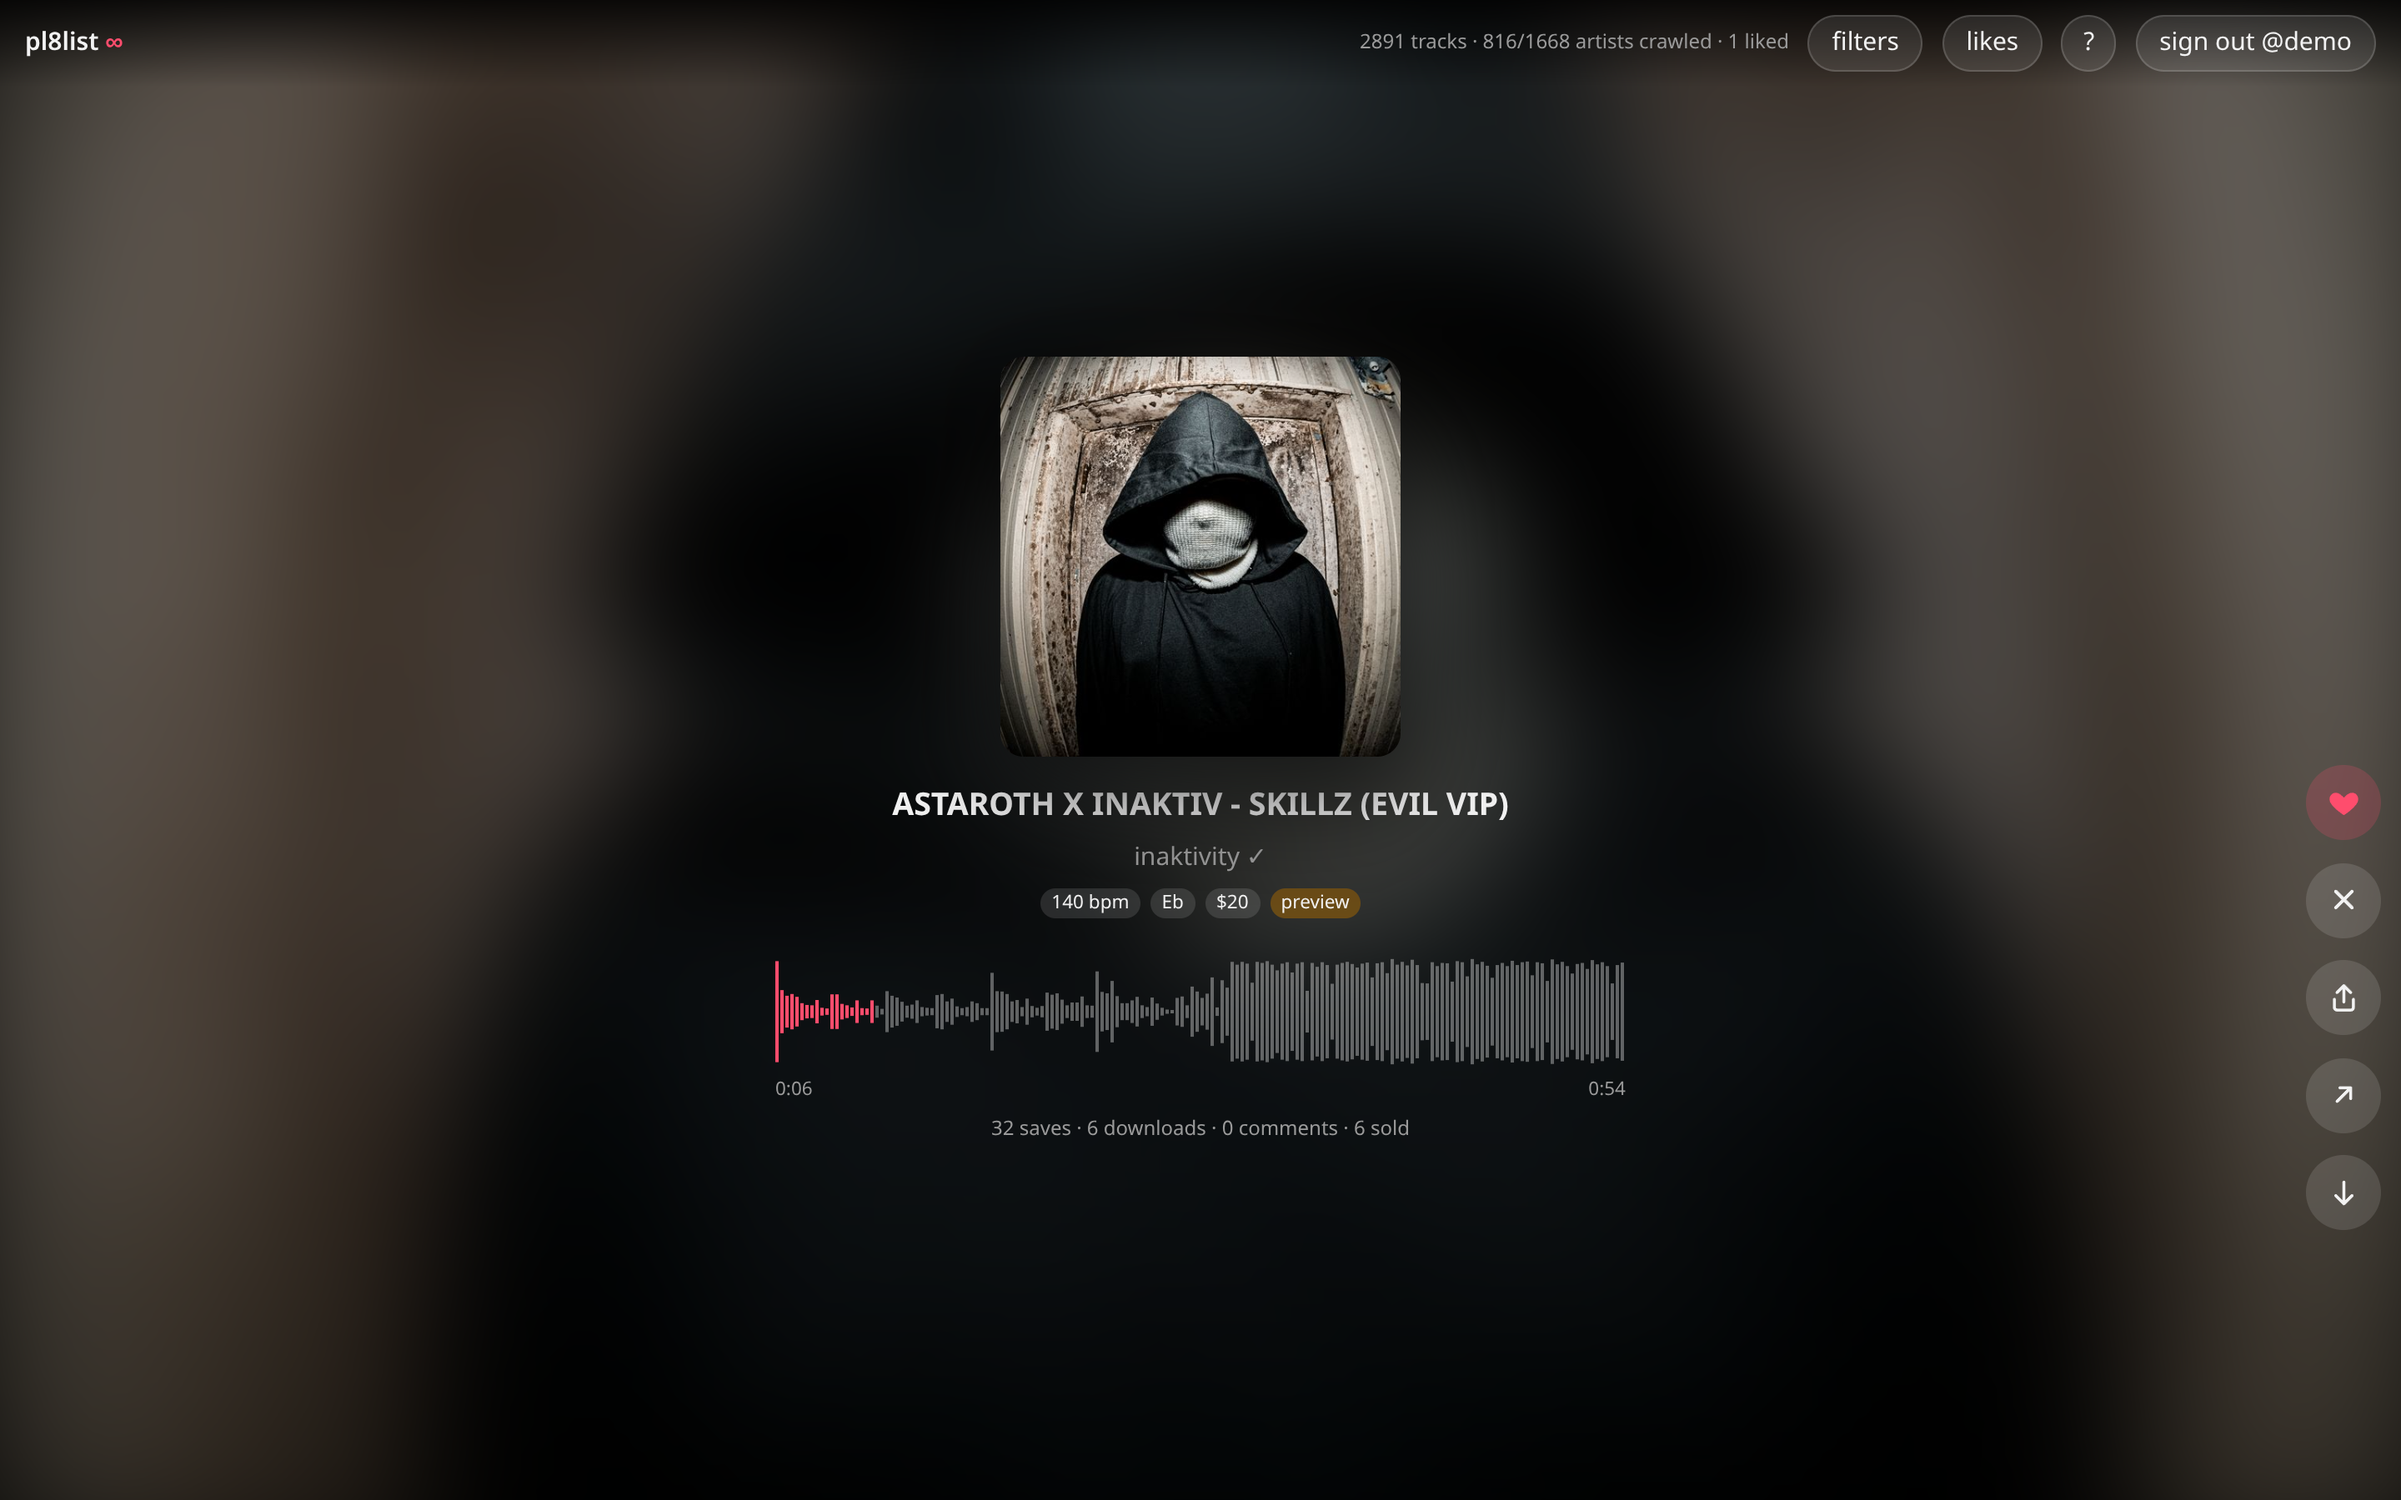
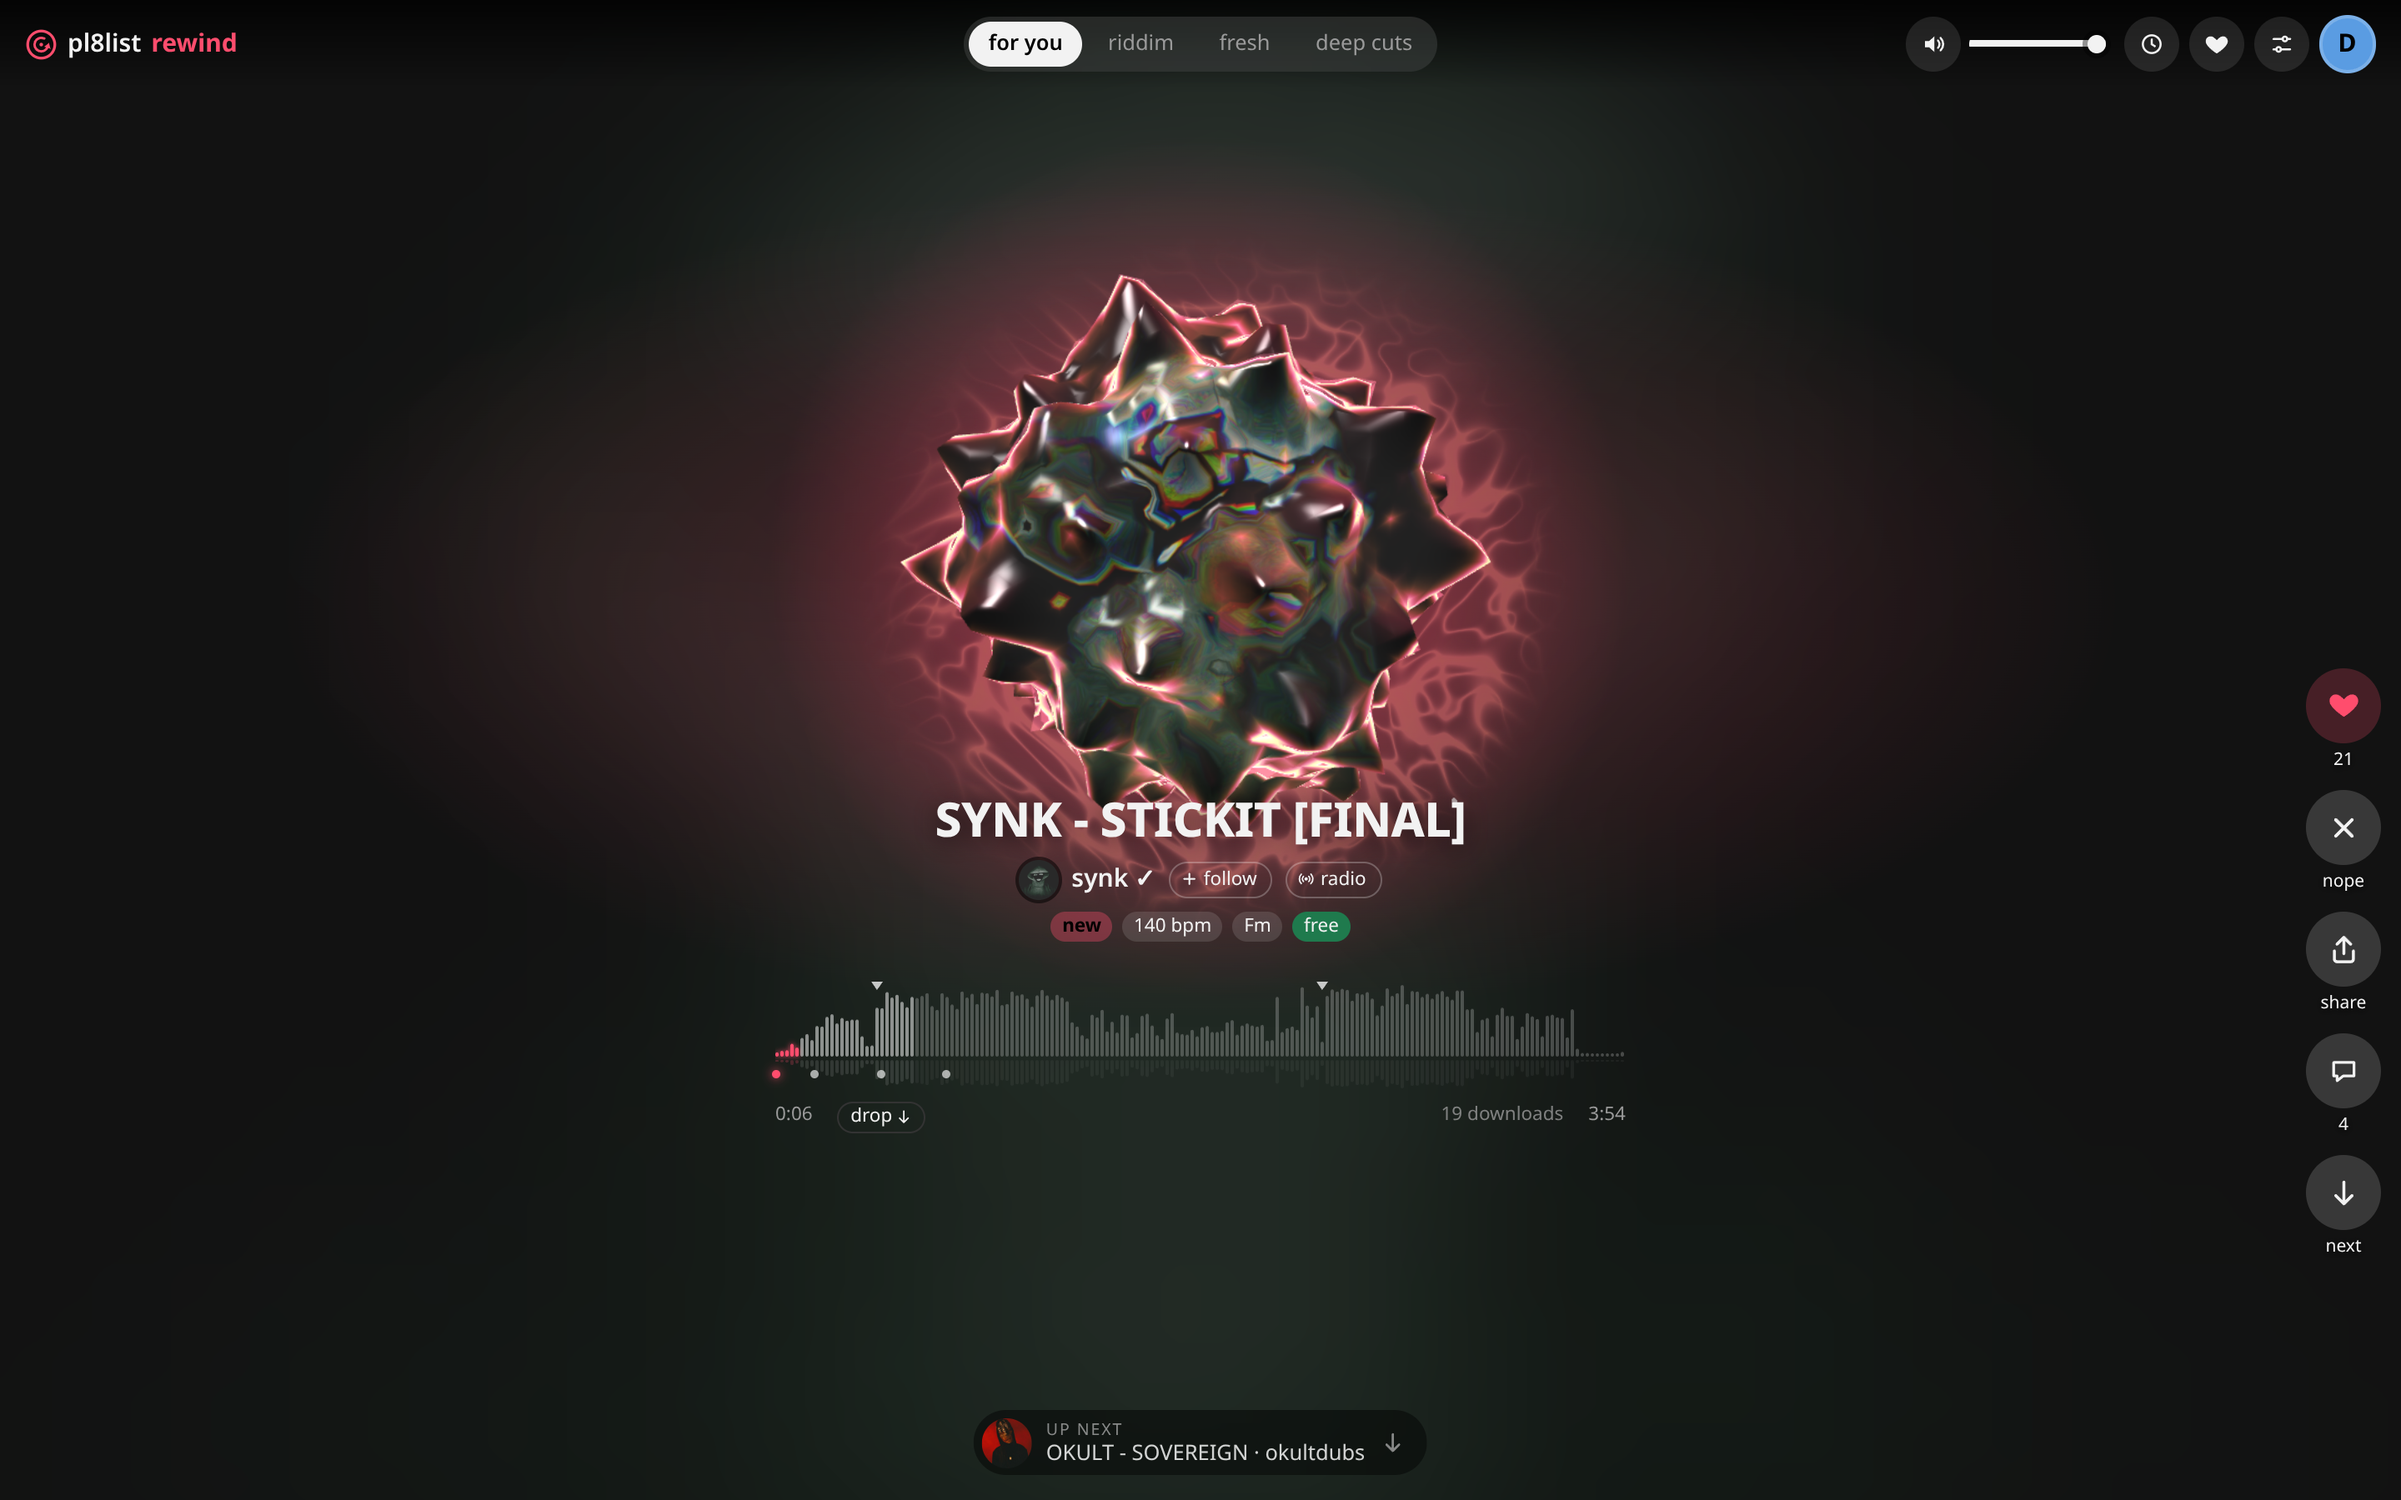
New screenshots, a demo GIF and a README facelift
Header with the app icon and a link to pl8.narl.io, a feature list,
guest listening under Accounts, and the controls as the in-app help
lists them.

diff --git a/README.md b/README.md
@@ -1,13 +1,49 @@
-# pl8list rewind
+<p align="center">
+  <img src="web/public/icons/icon.svg" width="112" alt="">
+</p>
+
+<h1 align="center">pl8list rewind</h1>
+
+<p align="center">
+  <b>Endless riddim from pl8list. Like it, and it comes back.</b>
+</p>
+
+<p align="center">
+  <a href="https://pl8.narl.io"><img src="https://img.shields.io/badge/listen-pl8.narl.io-ff4d6d?style=for-the-badge" alt="Listen on pl8.narl.io"></a>
+</p>
+
+<p align="center">
+  <img src="docs/demo.gif" width="640" alt="Starting the feed, liking a track, scrolling on and opening the likes">
+</p>
 
 An endless, TikTok-style scroll through [pl8list](https://pl8list.com), with its own
-recommendation algorithm that learns from what you like, finish and skip. Sign in with
-your pl8list account; each user gets their own feed and taste profile.
+recommendation algorithm that learns from what you like, finish and skip. Open
+[pl8.narl.io](https://pl8.narl.io) and press play: no account needed. Sign in with your
+pl8list account to bring your likes and follows along.
 
 The name is the soundsystem rewind: when a dance loves a tune, the selector pulls the
 plate back and runs it again. Here, what you like comes back.
 
 Not affiliated with pl8list.
+
+## Features
+
+- **One track per screen.** Swipe, scroll or press ↓. The next track is already buffered and
+  crossfades in.
+- **A feed that learns.** Likes, finished plays, skips, "not for me" and follows shape what
+  comes next. Four feeds: for you, riddim, fresh and deep cuts.
+- **Artist radio.** Start a radio from any artist: them and their neighbours in the artist
+  graph, with a reason on each track.
+- **Liquid artwork.** A WebGL drop that moves with the kicks, snares and wobble of the track.
+  On riddim it turns to ferrofluid.
+- **Drop marks and timed comments.** The waveform marks the drops (`d` jumps to the next
+  one). pl8list comments pop up at the moment they were left at.
+- **Comfort.** Likes and history panels, sleep timer, bass boost, crossfade length, zen
+  mode, lock-screen and headphone controls. Installs to the home screen as an app.
+- **Private by design.** The browser only talks to this server. Audio and images are
+  proxied, so no visitor address reaches pl8list or a CDN.
+
+## Screenshots
 
 ![Feed on desktop](docs/feed-desktop.png)
 
@@ -16,11 +52,11 @@ Not affiliated with pl8list.
   <img src="docs/login.png" width="520" alt="Sign-in screen">
 </p>
 
-| Likes | Filters |
-| ----- | ------- |
-| ![Likes panel](docs/likes.png) | ![Filters](docs/filters.png) |
+| Likes | Filters and settings |
+| ----- | -------------------- |
+| ![Likes panel](docs/likes.png) | ![Filters and settings](docs/filters.png) |
 
-## Run
+## Run it yourself
 
 ```sh
 docker compose up -d --build       # http://127.0.0.1:8790
@@ -70,6 +106,11 @@ Data (catalogue, users, listening history) lives in the `data` volume as one SQL
 
 ## Accounts
 
+Nobody needs an account to listen. Pressing play the first time makes a guest
+(`POST /auth/guest`, at most 10 per IP per hour): a local user with its own session cookie,
+so the feed still learns. When a guest signs in on that device, their likes, follows and
+history move to the signed-in account. Signing out as a guest deletes the guest and its data.
+
 There are no passwords here. Users sign in with the email of their pl8list account:
 
 1. The user enters their email. The server starts pl8list's own login, and pl8list mails
@@ -116,23 +157,31 @@ visitor address reaches pl8list or a CDN.
 
 ## Controls
 
-| phone            | desktop              | action                         |
-| ---------------- | -------------------- | ------------------------------ |
-| tap              | click · space        | play / pause                   |
-| double-tap       | double-click · l     | like                           |
-| swipe up / down  | ↓ j · ↑ k            | next / previous                |
-| drag waveform    | drag waveform · ← →  | seek                           |
-| follow button    | f                    | follow the artist              |
-| radio button     | r                    | artist radio (more like them)  |
-|                  | v                    | liquid / simple visuals        |
-| ✕ button         | x                    | not for me (skip, show less)   |
-| share button     | s                    | share / copy link              |
-|                  | m                    | mute                           |
-|                  | ? · Esc              | help · close panels            |
+| phone            | desktop                   | action                                |
+| ---------------- | ------------------------- | ------------------------------------- |
+| tap              | click · space             | play / pause                          |
+| double-tap       | double-click · l          | like                                  |
+| swipe up / down  | ↓ j · ↑ k · wheel         | next / previous                       |
+| drag waveform    | drag waveform · ← →       | seek (keys: 10 s)                     |
+|                  | , .                       | seek 5 s                              |
+|                  | 0–9                       | jump to 0–90 %                        |
+| drop ↓ button    | d                         | jump to the next drop                 |
+| follow button    | f                         | follow the artist                     |
+| radio button     | r                         | artist radio (more like them)         |
+| ✕ button         | x                         | not for me (skip, show less)          |
+| share button     | s                         | share / copy link                     |
+|                  | v                         | liquid / simple visuals               |
+|                  | z                         | zen: just the drop                    |
+|                  | c · h                     | filters and settings · history        |
+|                  | m · + −                   | mute · volume                         |
+|                  | ? · Esc                   | help · close panels                   |
 
 Lock-screen, notification and headphone buttons control playback too (Media Session API).
-"likes" lists your likes newest first; ▶ plays one right away. The filters panel picks the
-feed (for you, riddim, fresh, deep cuts) and the visuals. "radio" on a card opens the radio
+The tabs in the top bar pick the feed (for you, riddim, fresh, deep cuts). "likes" lists your
+likes newest first, with search; "play" queues them in order or shuffled, and ▶ plays one
+right away. "history" lists what played lately, kept on the device only. The filters panel
+holds the filters and the settings: visuals, ferrofluid spikes, crossfade, bass boost,
+comments on the waveform and the sleep timer. "radio" on a card opens the radio
 sheet: the artist, their tags and the artists next to them (tap one to walk over to theirs).
 "start radio" jumps to the radio's first track; each radio track says why it is there, and the
 chip in the top bar goes back to your feed. Feed and filters (free only, BPM range) are
@@ -150,7 +199,8 @@ Single-letter keys clash with vim-key browser extensions (Vimium and the like), 
   current card and its neighbours are in the DOM. One wheel or trackpad gesture moves one
   page.
 - `player.ts`: two audio decks. The next track is buffered a few seconds after the current
-  one starts, so it plays at once; tracks crossfade (0.9 s, equal power) and the next one
+  one starts, so it plays at once; tracks crossfade (equal power, 0.9 s unless set otherwise
+  in the filters panel) and the next one
   starts just before the current one ends. Both decks run through a Web Audio graph with an
   analyser. Not on iOS: its element volume is read-only and Web Audio stops with the screen
   locked, so there tracks switch with a cut and lock-screen playback keeps working.
